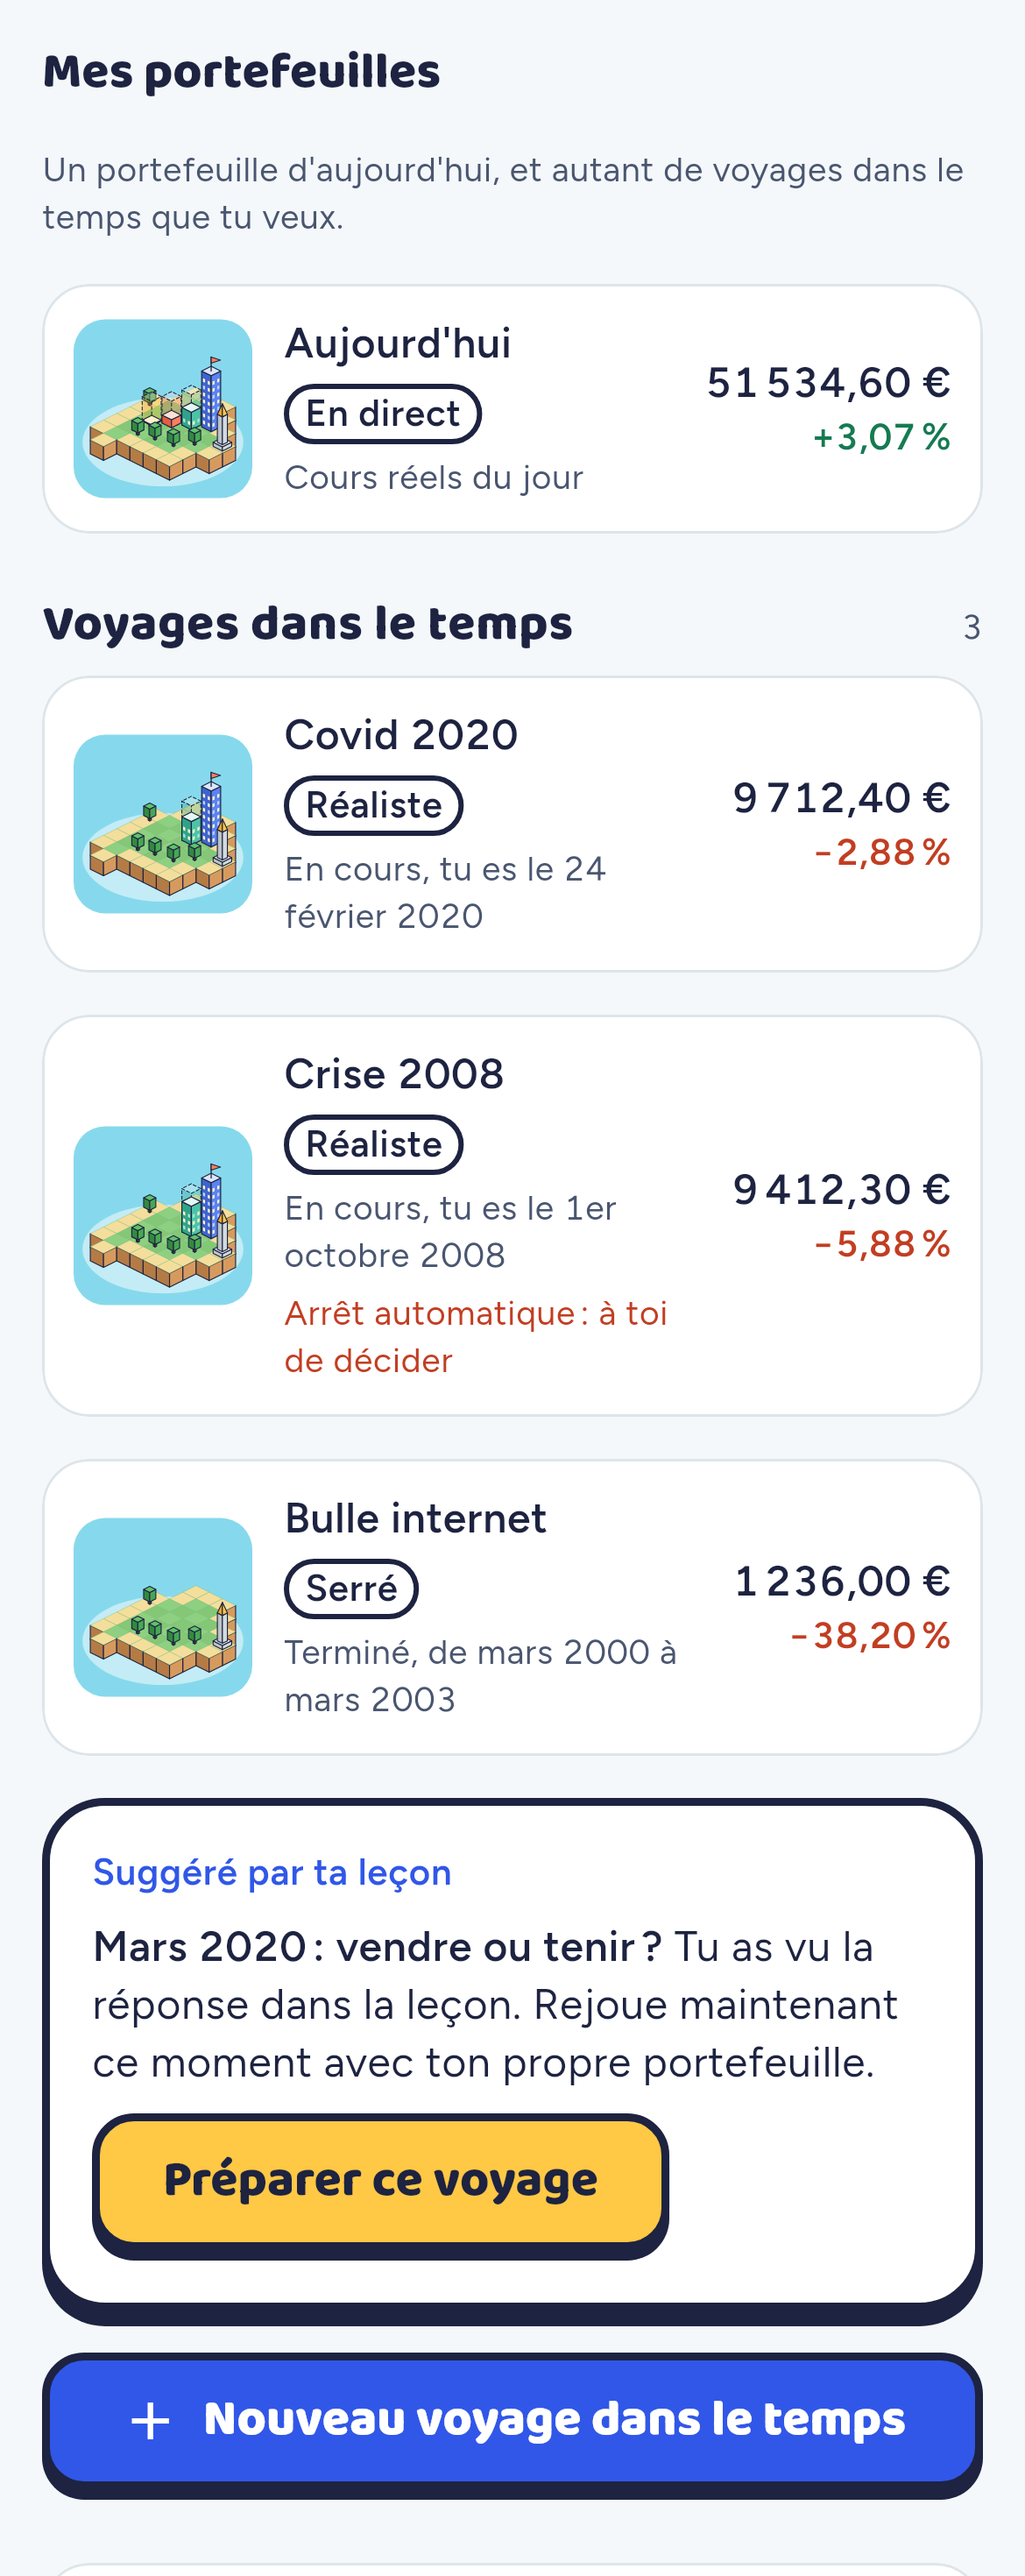
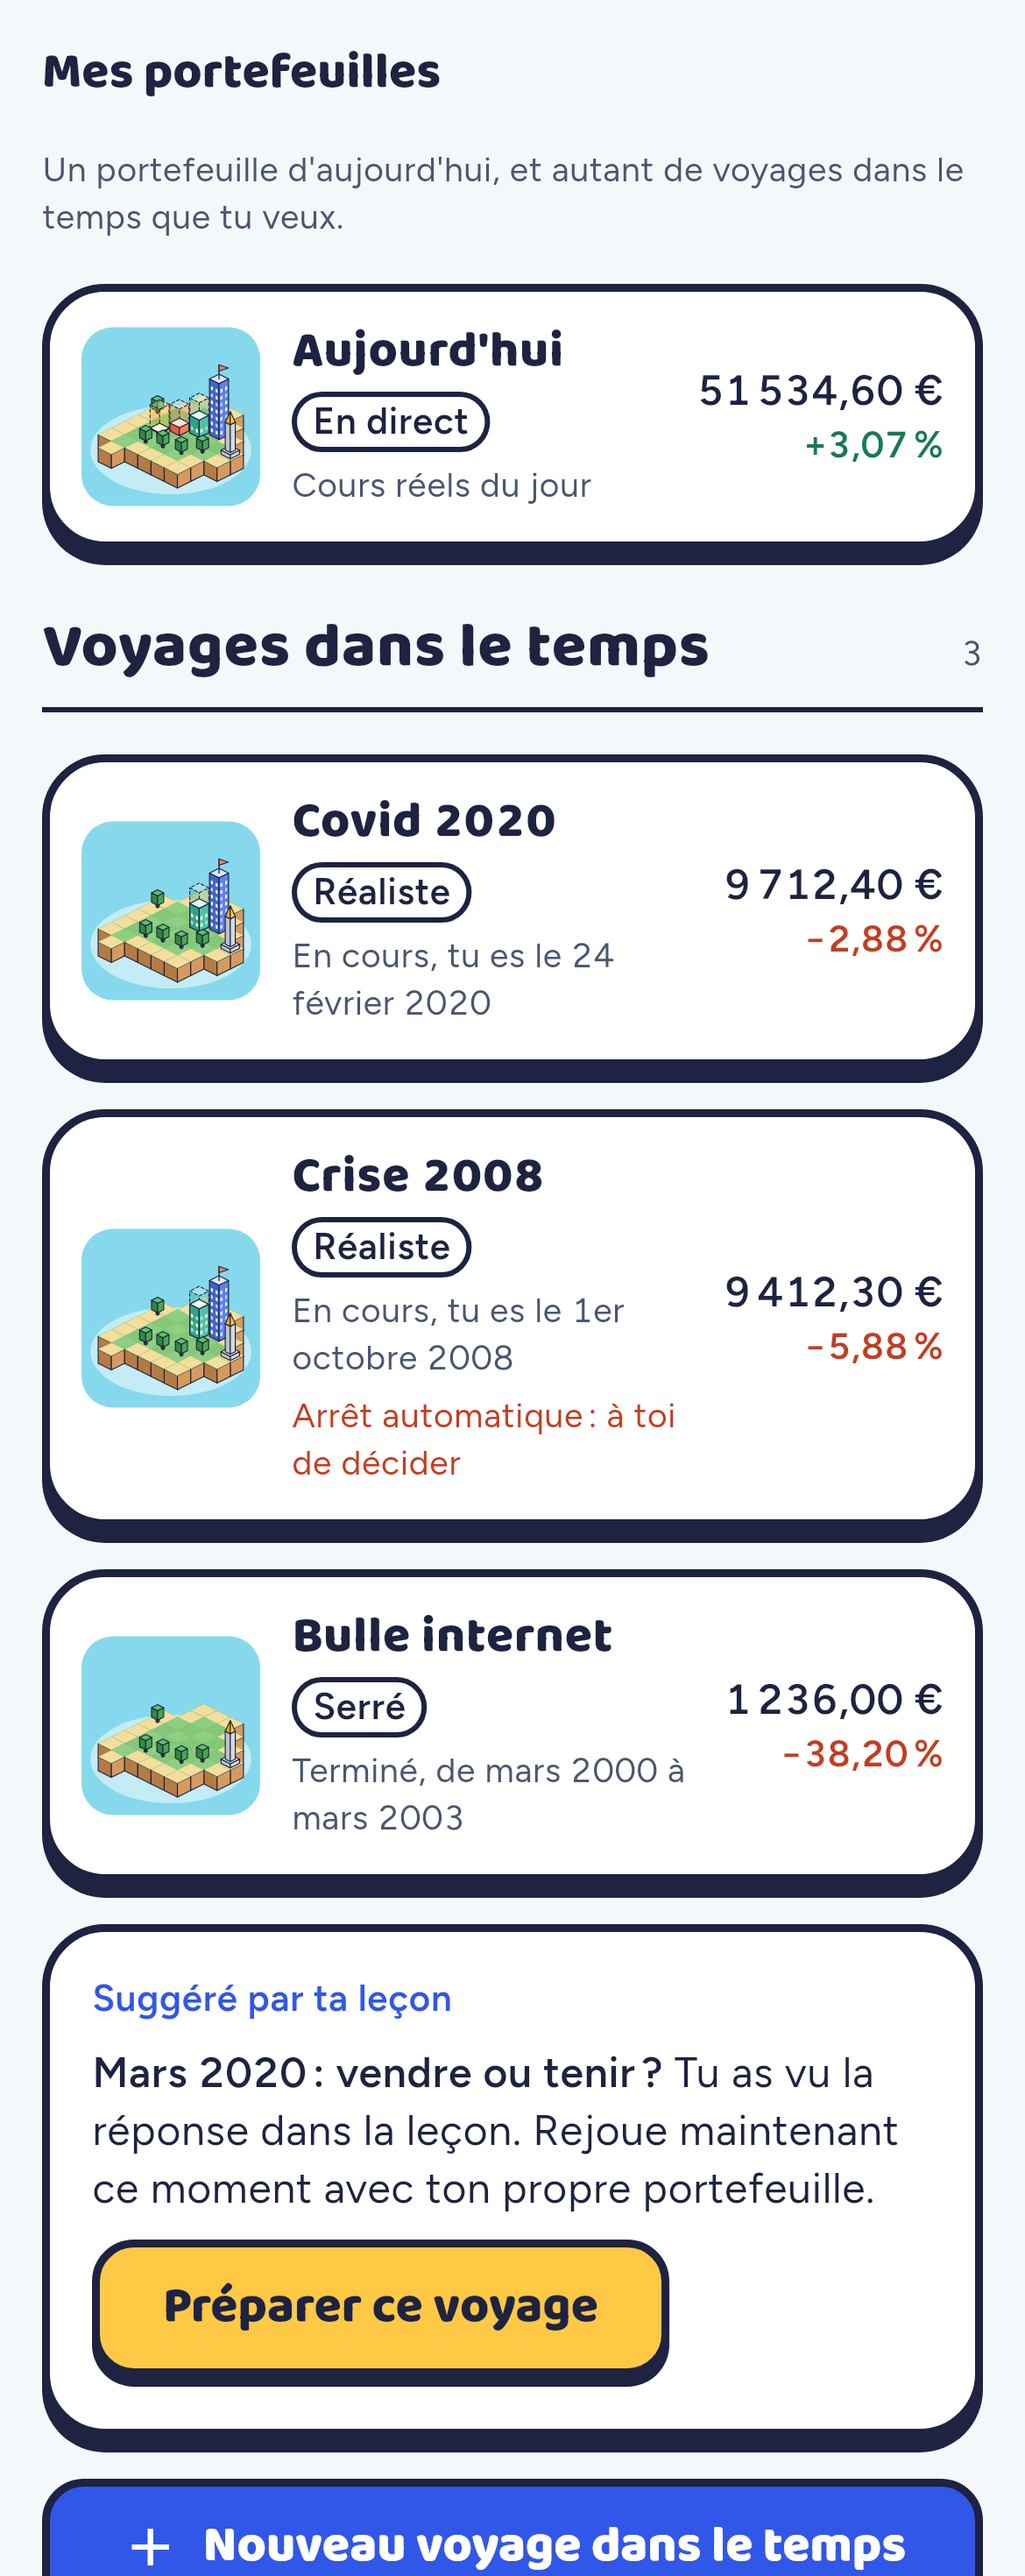
M13-24: « Mes portefeuilles » joins the world family: chunky wallet cards, a separator for the trips (#48)

diff --git a/app/lib/presentation/features/wallets/wallets_screen.dart b/app/lib/presentation/features/wallets/wallets_screen.dart
@@ -15,7 +15,6 @@ import '../../../core/widgets/async_states.dart';
 import '../../../core/widgets/chunky.dart';
 import '../../../data/repositories/wallet_repository.dart';
 import '../../../domain/wallet/wallet.dart';
-import '../../widgets/section_title.dart';
 import '../../widgets/sign_color.dart';
 import '../node/node_screen.dart' show LessonCard;
 import 'wallet_islet.dart';
@@ -48,15 +47,21 @@ class WalletsScreen extends ConsumerWidget {
             Text(l10n.wallets_intro, style: muted),
             const SizedBox(height: AppSpace.x4),
             if (list.live case final live?) _WalletRow(live),
+            // A separator, as Explore's groups (M13-24): the title, its
+            // count, an ink rule.
+            const SizedBox(height: AppSpace.x6),
             MergeSemantics(
               child: Row(
                 crossAxisAlignment: CrossAxisAlignment.baseline,
                 textBaseline: TextBaseline.alphabetic,
                 children: [
                   Expanded(
-                    child: SectionTitle(
-                      l10n.wallets_trips_title,
-                      top: AppSpace.x6,
+                    child: Semantics(
+                      header: true,
+                      child: Text(
+                        l10n.wallets_trips_title,
+                        style: AppText.title,
+                      ),
                     ),
                   ),
                   if (list.trips.isNotEmpty)
@@ -64,6 +69,13 @@ class WalletsScreen extends ConsumerWidget {
                 ],
               ),
             ),
+            const SizedBox(height: AppSpace.x2),
+            const DecoratedBox(
+              key: ValueKey('trips-rule'),
+              decoration: BoxDecoration(color: AppColors.ink),
+              child: SizedBox(height: 2, width: double.infinity),
+            ),
+            const SizedBox(height: AppSpace.x4),
             if (list.trips.isEmpty)
               Text(
                 l10n.wallets_no_trips,
@@ -89,7 +101,7 @@ class WalletsScreen extends ConsumerWidget {
               leading: const _IconTile(Icons.event_repeat_outlined),
               onTap: () => context.push('/tools/dca'),
               lines: [
-                Text(l10n.wallets_dca_title, style: AppText.bodyStrong),
+                Text(l10n.wallets_dca_title, style: AppText.titleSmall),
                 Text(l10n.wallets_dca_body, style: muted),
               ],
               trailing: const Icon(Icons.chevron_right, color: AppColors.muted),
@@ -124,8 +136,9 @@ String _difficulty(AppLocalizations l10n, String id) => switch (id) {
   final other => other,
 };
 
-/// A flat row of the list: [leading] (a wallet's islet, a tool's icon), what
-/// it is, then [trailing]. The whole row opens [onTap].
+/// A row of the list as a chunky card (M13-24, the world family): [leading]
+/// (a wallet's islet, a tool's icon), what it is, then [trailing]. The whole
+/// card opens [onTap], pressing down onto its shadow.
 class _Row extends StatelessWidget {
   const _Row({
     required this.leading,
@@ -140,30 +153,25 @@ class _Row extends StatelessWidget {
   final Widget? trailing;
 
   @override
-  Widget build(BuildContext context) => Card(
-    clipBehavior: Clip.antiAlias,
-    child: InkWell(
-      onTap: onTap,
-      child: Padding(
-        padding: const EdgeInsets.all(AppSpace.x3),
-        child: Row(
-          children: [
-            leading,
-            const SizedBox(width: AppSpace.x3),
-            Expanded(
-              child: Column(
-                crossAxisAlignment: CrossAxisAlignment.start,
-                spacing: AppSpace.x1,
-                children: lines,
-              ),
-            ),
-            if (trailing case final trailing?) ...[
-              const SizedBox(width: AppSpace.x3),
-              trailing,
-            ],
-          ],
+  Widget build(BuildContext context) => ChunkyCard(
+    onTap: onTap,
+    padding: const EdgeInsets.all(AppSpace.x3),
+    child: Row(
+      children: [
+        leading,
+        const SizedBox(width: AppSpace.x3),
+        Expanded(
+          child: Column(
+            crossAxisAlignment: CrossAxisAlignment.start,
+            spacing: AppSpace.x1,
+            children: lines,
+          ),
         ),
-      ),
+        if (trailing case final trailing?) ...[
+          const SizedBox(width: AppSpace.x3),
+          trailing,
+        ],
+      ],
     ),
   );
 }
@@ -259,7 +267,7 @@ class _WalletRow extends ConsumerWidget {
           children: [
             Text(
               live ? l10n.wallets_live_name : wallet.name,
-              style: AppText.bodyStrong,
+              style: AppText.titleSmall,
             ),
             if (chip != null) _Chip(chip),
           ],

diff --git a/app/test/presentation/features/wallets_screen_test.dart b/app/test/presentation/features/wallets_screen_test.dart
@@ -13,6 +13,7 @@ import 'package:finance_companion/domain/wallet/island_buildings.dart';
 import 'package:finance_companion/domain/wallet/order.dart';
 import 'package:finance_companion/domain/wallet/trip_engine.dart';
 import 'package:finance_companion/domain/wallet/wallet.dart';
+import 'package:finance_companion/core/widgets/chunky.dart';
 import 'package:finance_companion/main.dart';
 import 'package:finance_companion/presentation/features/map/archipelago.dart';
 import 'package:finance_companion/presentation/features/wallets/wallet_islet.dart';
@@ -165,6 +166,20 @@ void main() {
 
     expect(find.text('Voyages dans le temps'), findsOneWidget);
     expect(find.text('1'), findsOneWidget, reason: 'the trip count');
+    // The world family (M13-24): each wallet a chunky card, the trips under
+    // a separator header and its ink rule.
+    for (final name in ["Aujourd'hui", 'Crise 2008']) {
+      expect(
+        find.ancestor(of: find.text(name), matching: find.byType(ChunkyCard)),
+        findsOneWidget,
+        reason: name,
+      );
+    }
+    expect(
+      tester.getSemantics(find.text('Voyages dans le temps')),
+      isSemantics(isHeader: true),
+    );
+    expect(find.byKey(const ValueKey('trips-rule')), findsOneWidget);
     expect(find.text('Crise 2008'), findsOneWidget);
     expect(find.text('Réaliste'), findsOneWidget);
     expect(find.text('En cours, tu es le 1er octobre 2008'), findsOneWidget);

diff --git a/docs/BRIEF.md b/docs/BRIEF.md
@@ -476,8 +476,9 @@ Wallet kinds: `live` (exactly one, created at first launch) and `trip` (0..n).
 `LiveClock`.
 
 **Wallets list** (the Portefeuille tab; layout decided 2026-10-24, artboard `Wallets-A` of the art direction
-canvas, money family §10.1): « Mes portefeuilles », and under it « Un portefeuille d'aujourd'hui, et autant de
-voyages dans le temps que tu veux. » Each wallet is a flat row: its islet (decided 2026-10-28, M11-3: the
+canvas; money family §10.1 until M13-24, world family since, decided 2026-11-17: its cards chunky, the trips under a
+separator header with its count and an ink rule, the figures in Figtree): « Mes portefeuilles », and under it « Un portefeuille d'aujourd'hui, et autant de
+voyages dans le temps que tu veux. » Each wallet is a chunky card: its islet (decided 2026-10-28, M11-3: the
 wallet's buildings on its island as the map draws them, all grown whatever the lessons (M13-1), on a 68 px square of
 `sea`, still; « Ton île » or « La ville du voyage {nom} » for screen readers), its name and a chip, a status line, and on the right its value over its change in %
 (signed; the amount when nothing was put in). The live wallet is « Aujourd'hui », chip « En direct », « Cours
@@ -1268,8 +1269,8 @@ data, no key).
 ### 10.1 Two component families
 
 - **World / companion ("chunky")**: map, island path, node player, wizard, companion cards, missions,
-  celebrations, the glossary (M11-2). White surfaces, 3 px ink border, offset shadow `0 4–6 px 0 ink`, radius 16–24, Baloo 2 titles.
-- **Money ("flat")**: wallet, asset page, order sheet, explorer, settings, charts. White cards, 1 px line
+  celebrations, the glossary (M11-2), the wallets list (M13-24). White surfaces, 3 px ink border, offset shadow `0 4–6 px 0 ink`, radius 16–24, Baloo 2 titles.
+- **Money ("flat")**: wallet, asset page, order sheet, explorer, settings, charts (the wallets list until M13-24). White cards, 1 px line
   border, no offset shadow, radius 14–18. Numbers in Figtree with tabular figures.
 
 Rule: chunky = the game is talking to you, or what you touch; flat = the figures of your money.
